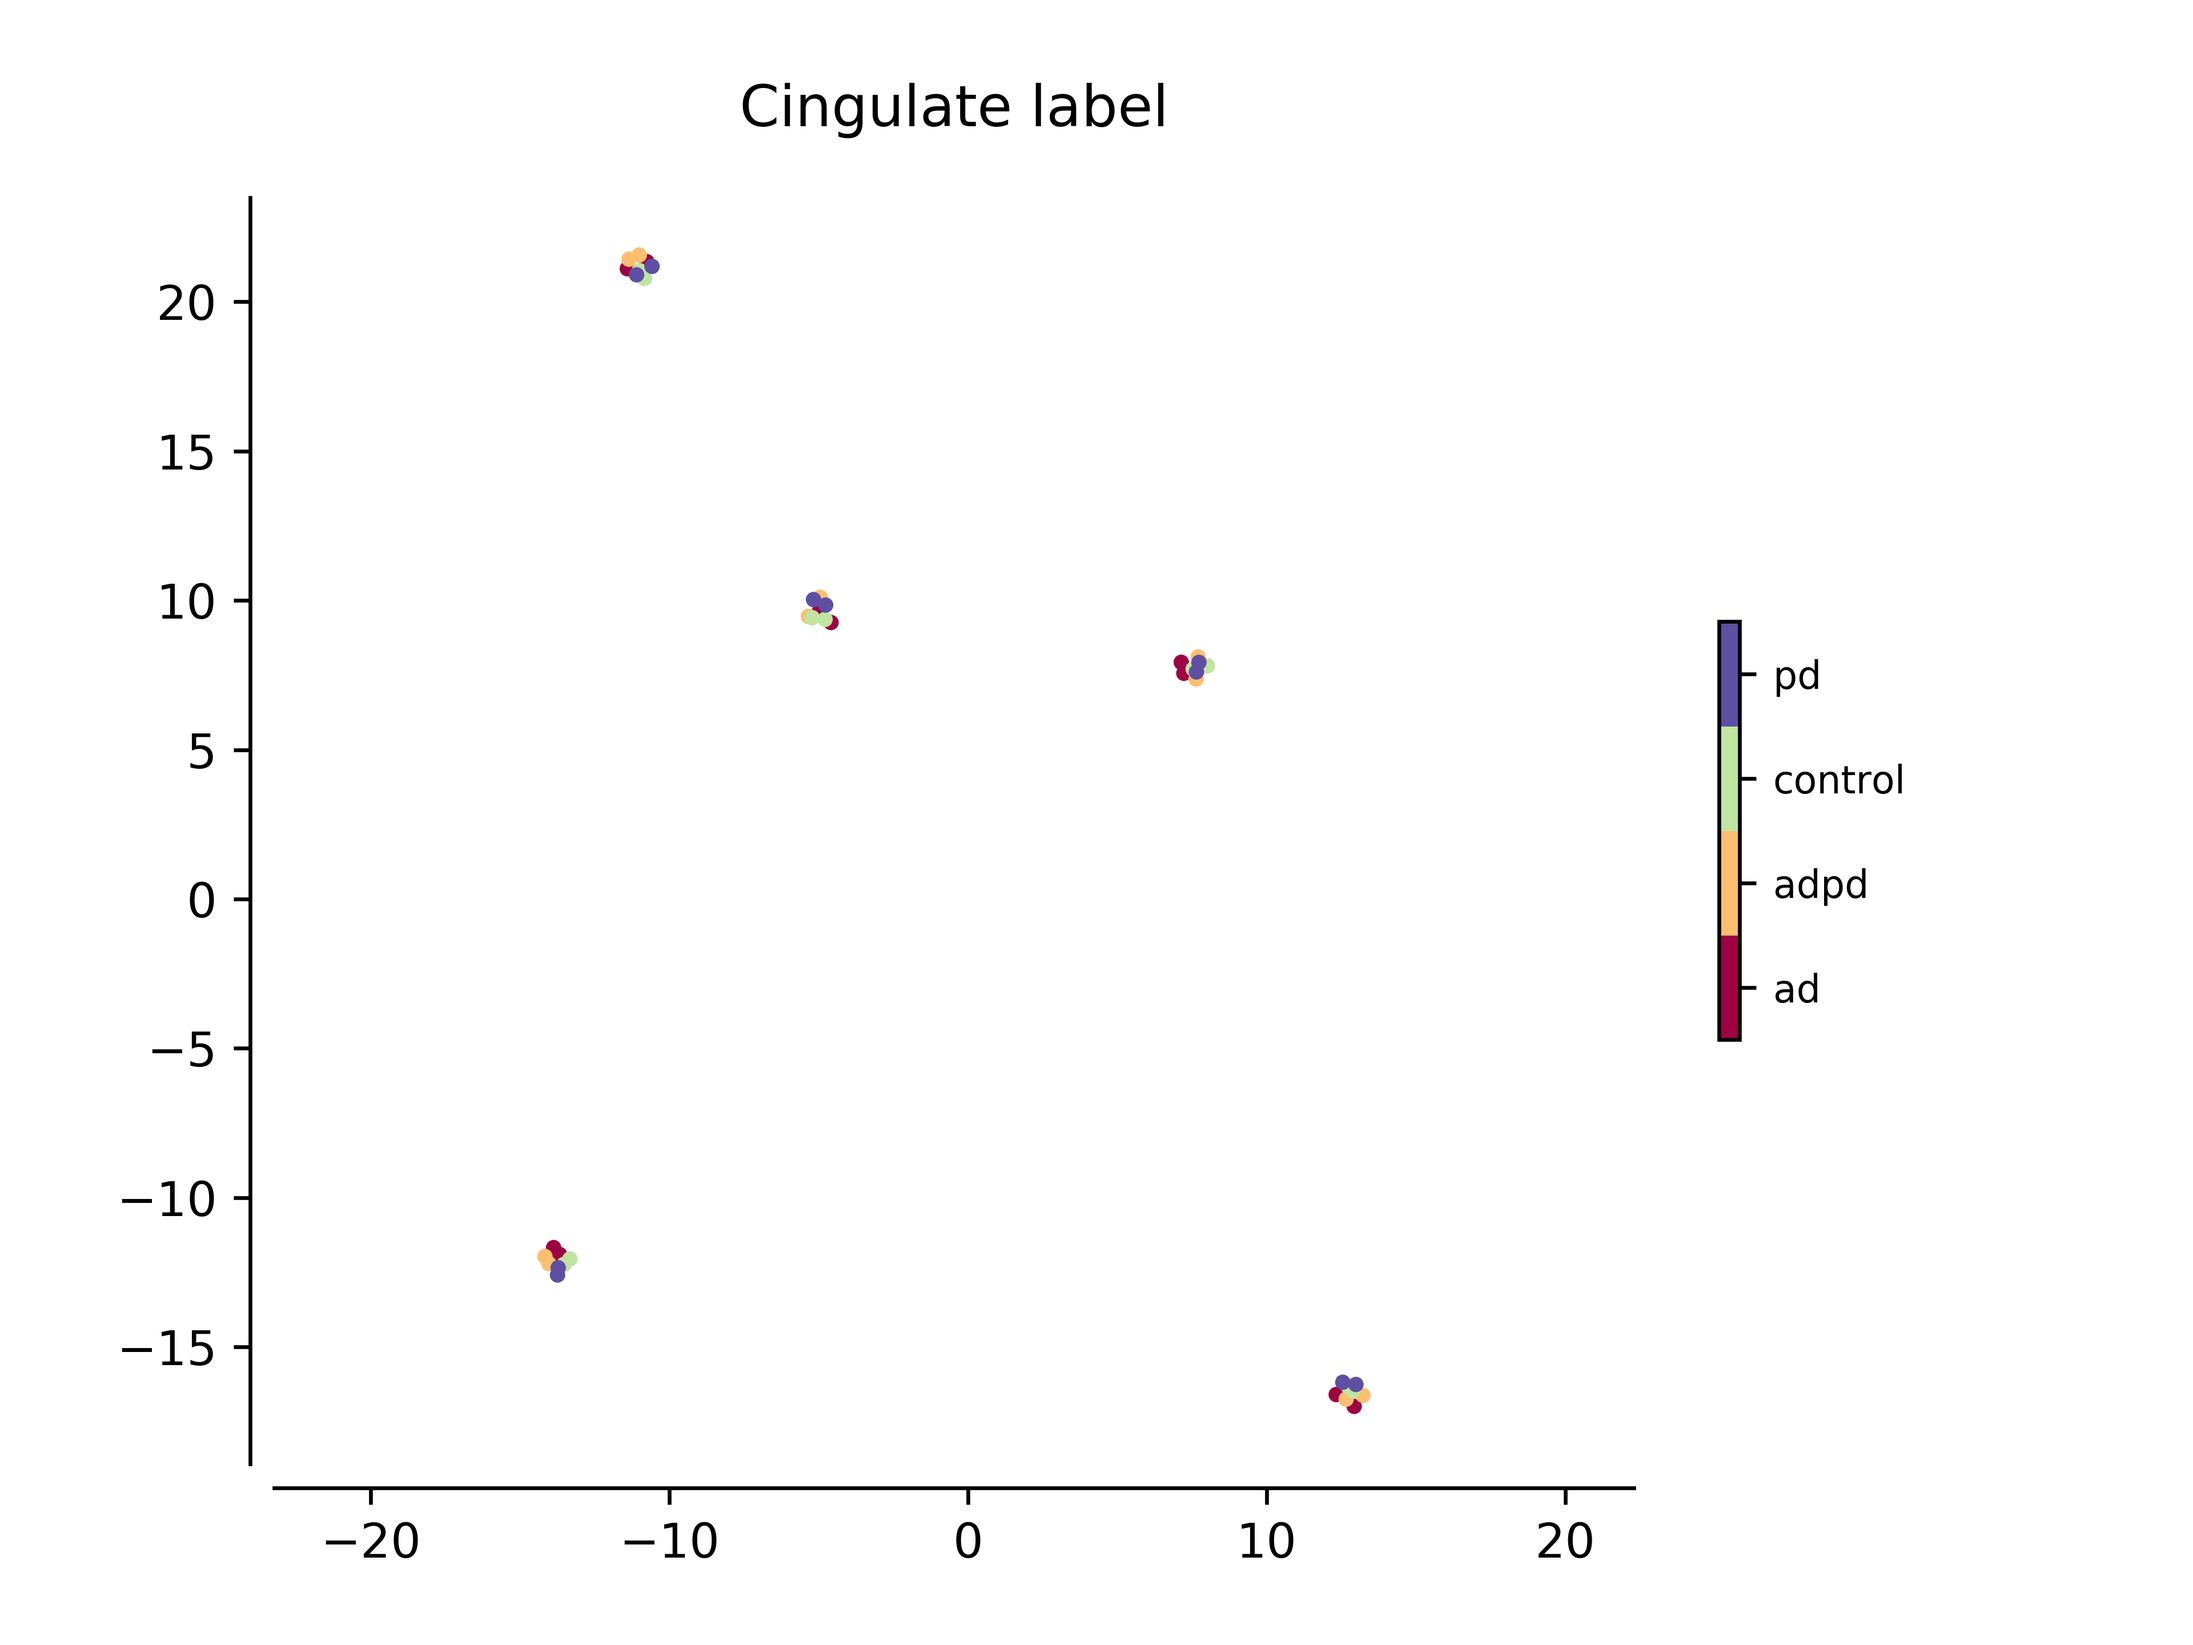
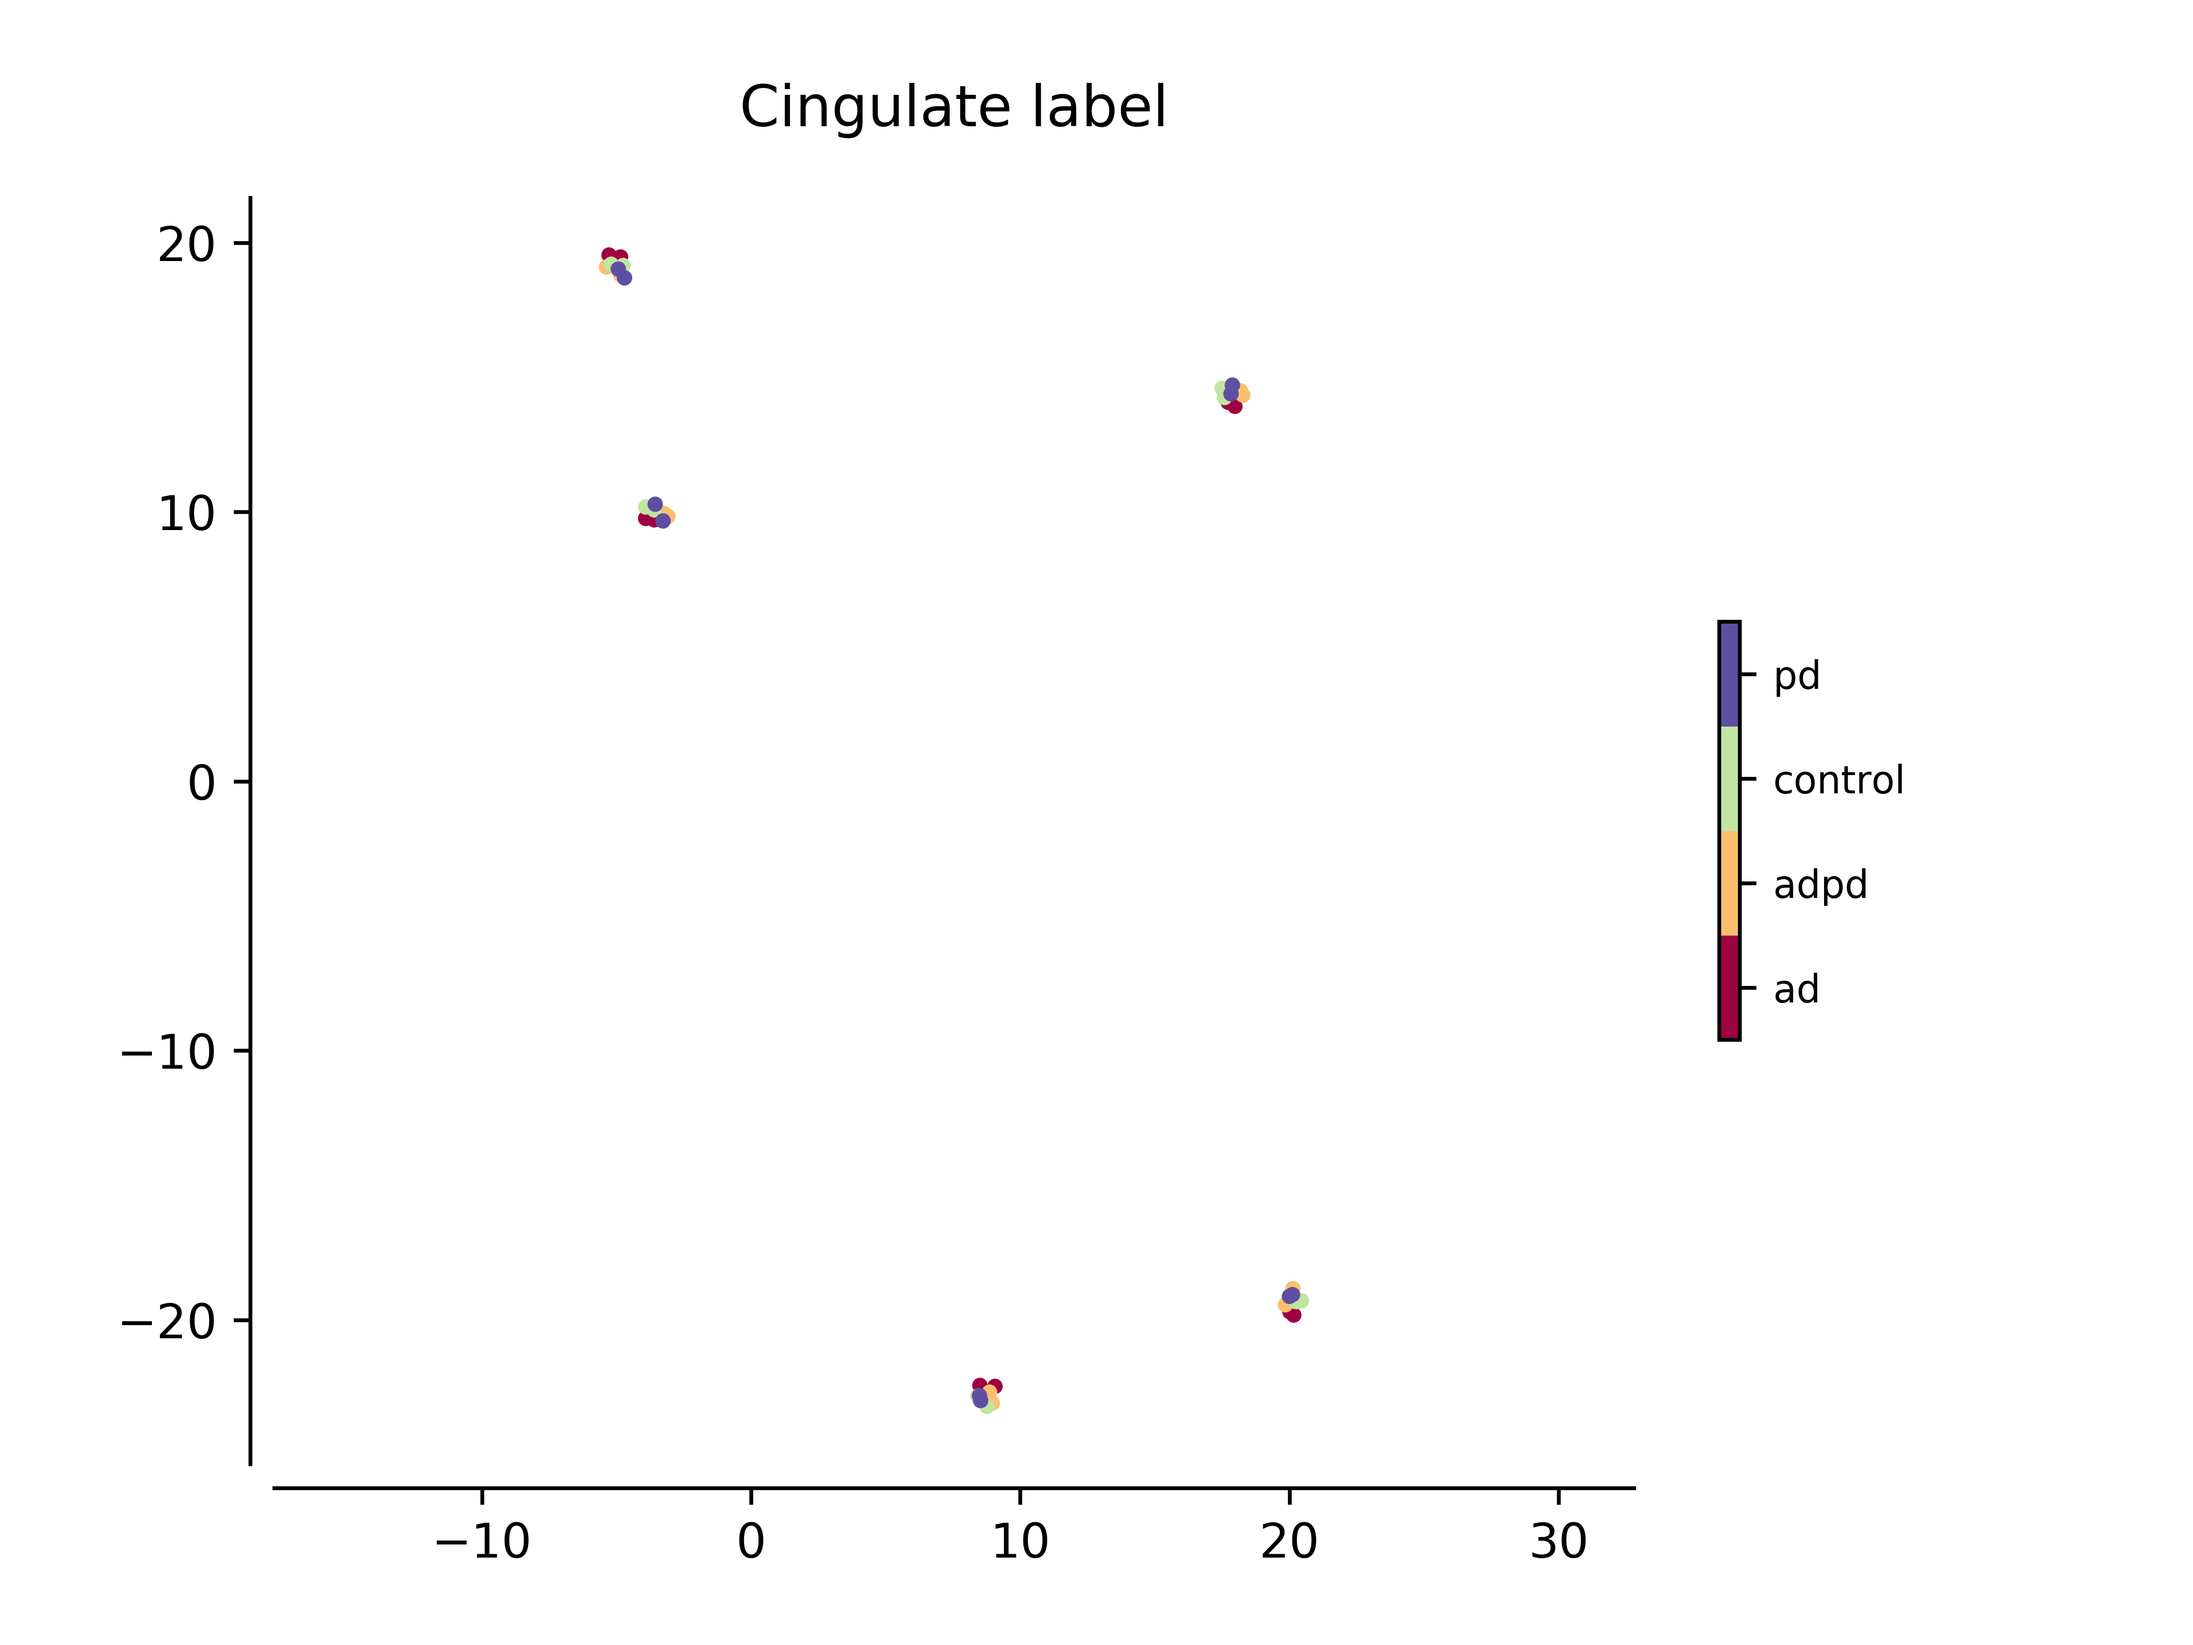
Added multidimensional UMAP plotting

diff --git a/src/data/CleanFrame.py b/src/data/CleanFrame.py
@@ -245,6 +245,7 @@ class CleanFrame(pd.core.frame.DataFrame):
         self,
         X_list,
         y_name,
+        plt_comp=(0, 1),
         title="UMAP Plot",
         title_size=12,
         label_size=8,
@@ -261,6 +262,8 @@ class CleanFrame(pd.core.frame.DataFrame):
             List of columns to be used as features
         y_name: str
             Column containing labels
+        plt_comp: tuple
+            Dimensions to be plotted
         title: str, Optional
             Plot title
         title_size: numeric, Optional
@@ -292,6 +295,8 @@ class CleanFrame(pd.core.frame.DataFrame):
             except (ValueError, TypeError) as err:
                 print(f"{var} needs to be numeric")
                 raise
+        if not isinstance(plt_comp, tuple):
+            raise ValueError(f'plt_comp must be a tuple')
 
         # Reducer for umap
         X, y = self[X_list], self[y_name]
@@ -304,8 +309,8 @@ class CleanFrame(pd.core.frame.DataFrame):
 
         # Plot UMAP
         plt.scatter(
-            embedding[:, 0],
-            embedding[:, 1],
+            embedding[:, plt_comp[0]],
+            embedding[:, plt_comp[1]],
             s=5,
             c=np.select(conditions, choices, 0),
             cmap="Spectral",

diff --git a/src/visualization/pre_visualize.py b/src/visualization/pre_visualize.py
@@ -85,6 +85,7 @@ if __name__ == "__main__":
 
     for data in zip((frontal_umap, cingulate_umap), ("Frontal", "Cingulate")):
         for col in ("label", "batch"):
+            # Plot first 2 dimensions
             data[0].umap(
                 (x for x in data[0].columns if x not in ["label", "batch"]),
                 col,
@@ -92,6 +93,18 @@ if __name__ == "__main__":
                 show=False,
                 save=True,
                 path=f"reports/figures/{data[1]}_{col}.png",
+            )
+            plt.close()
+            # Reduces to 3 and plot 2 and third
+            data[0].umap(
+                (x for x in data[0].columns if x not in ["label", "batch"]),
+                col,
+                plt_comp=(1, 2),
+                title=f"{data[1]} {col}",
+                show=False,
+                save=True,
+                path=f"reports/figures/{data[1]}_{col}_23.png",
+                n_components=3,
             )
             plt.close()
 
